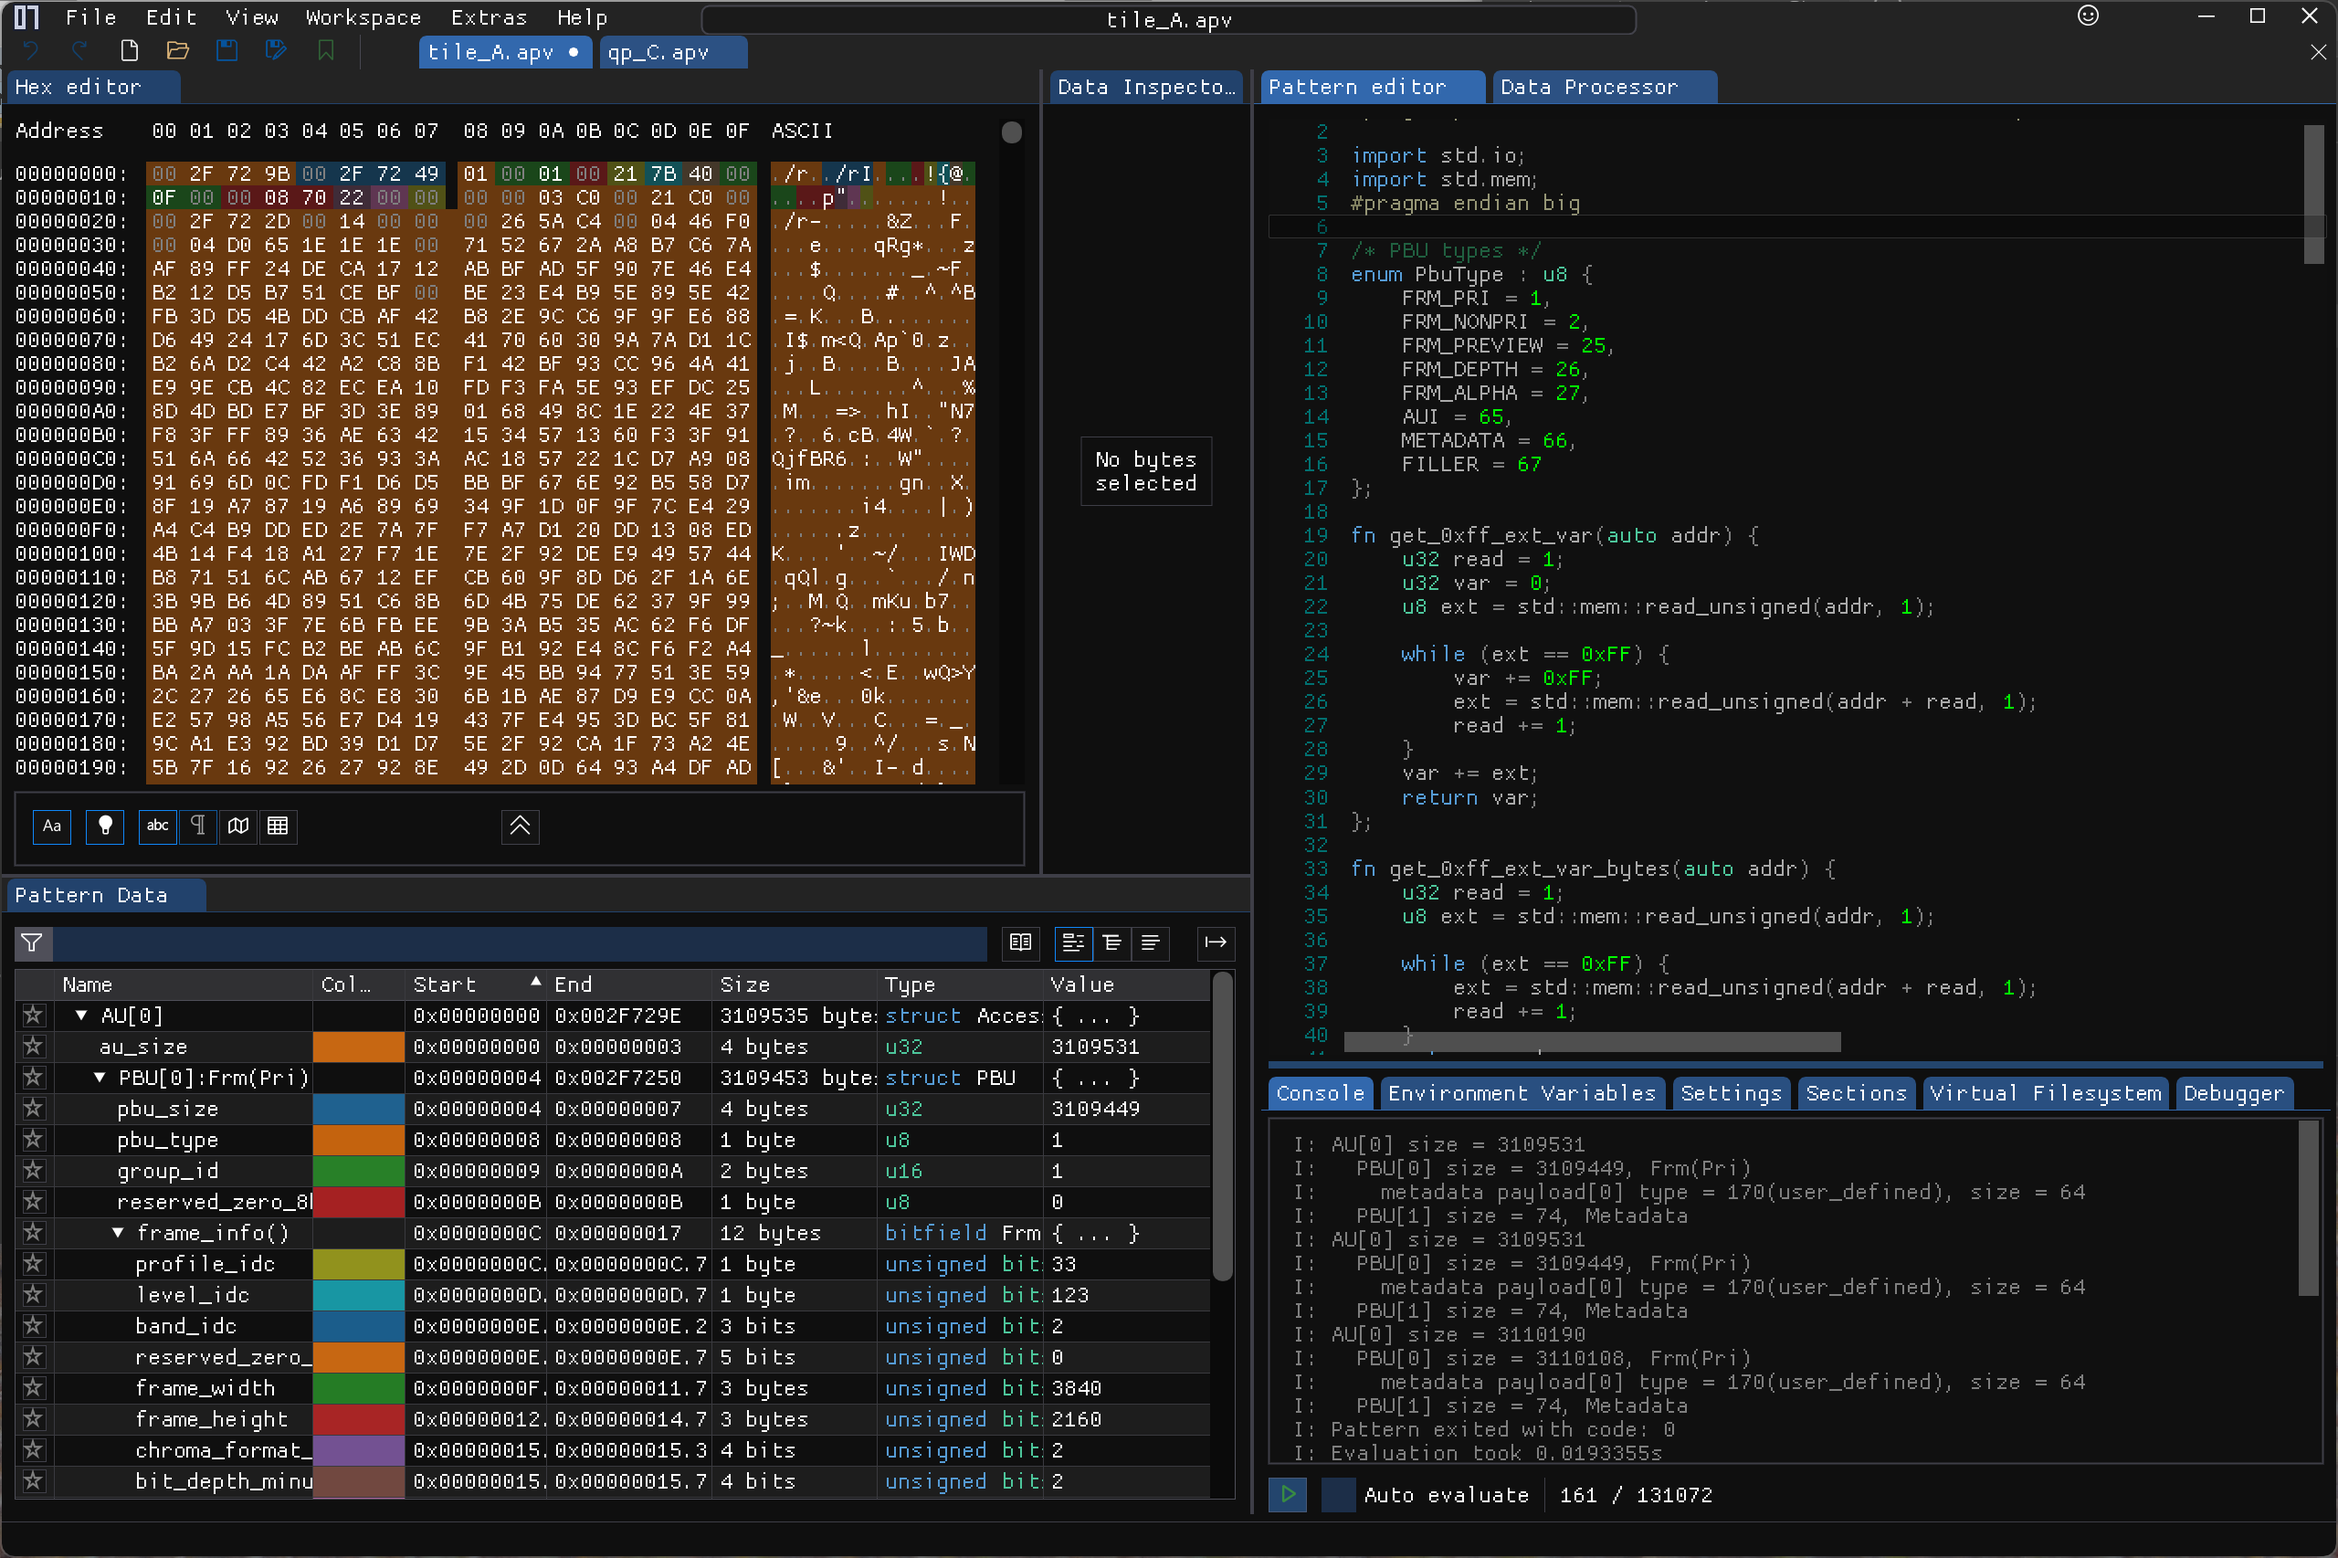
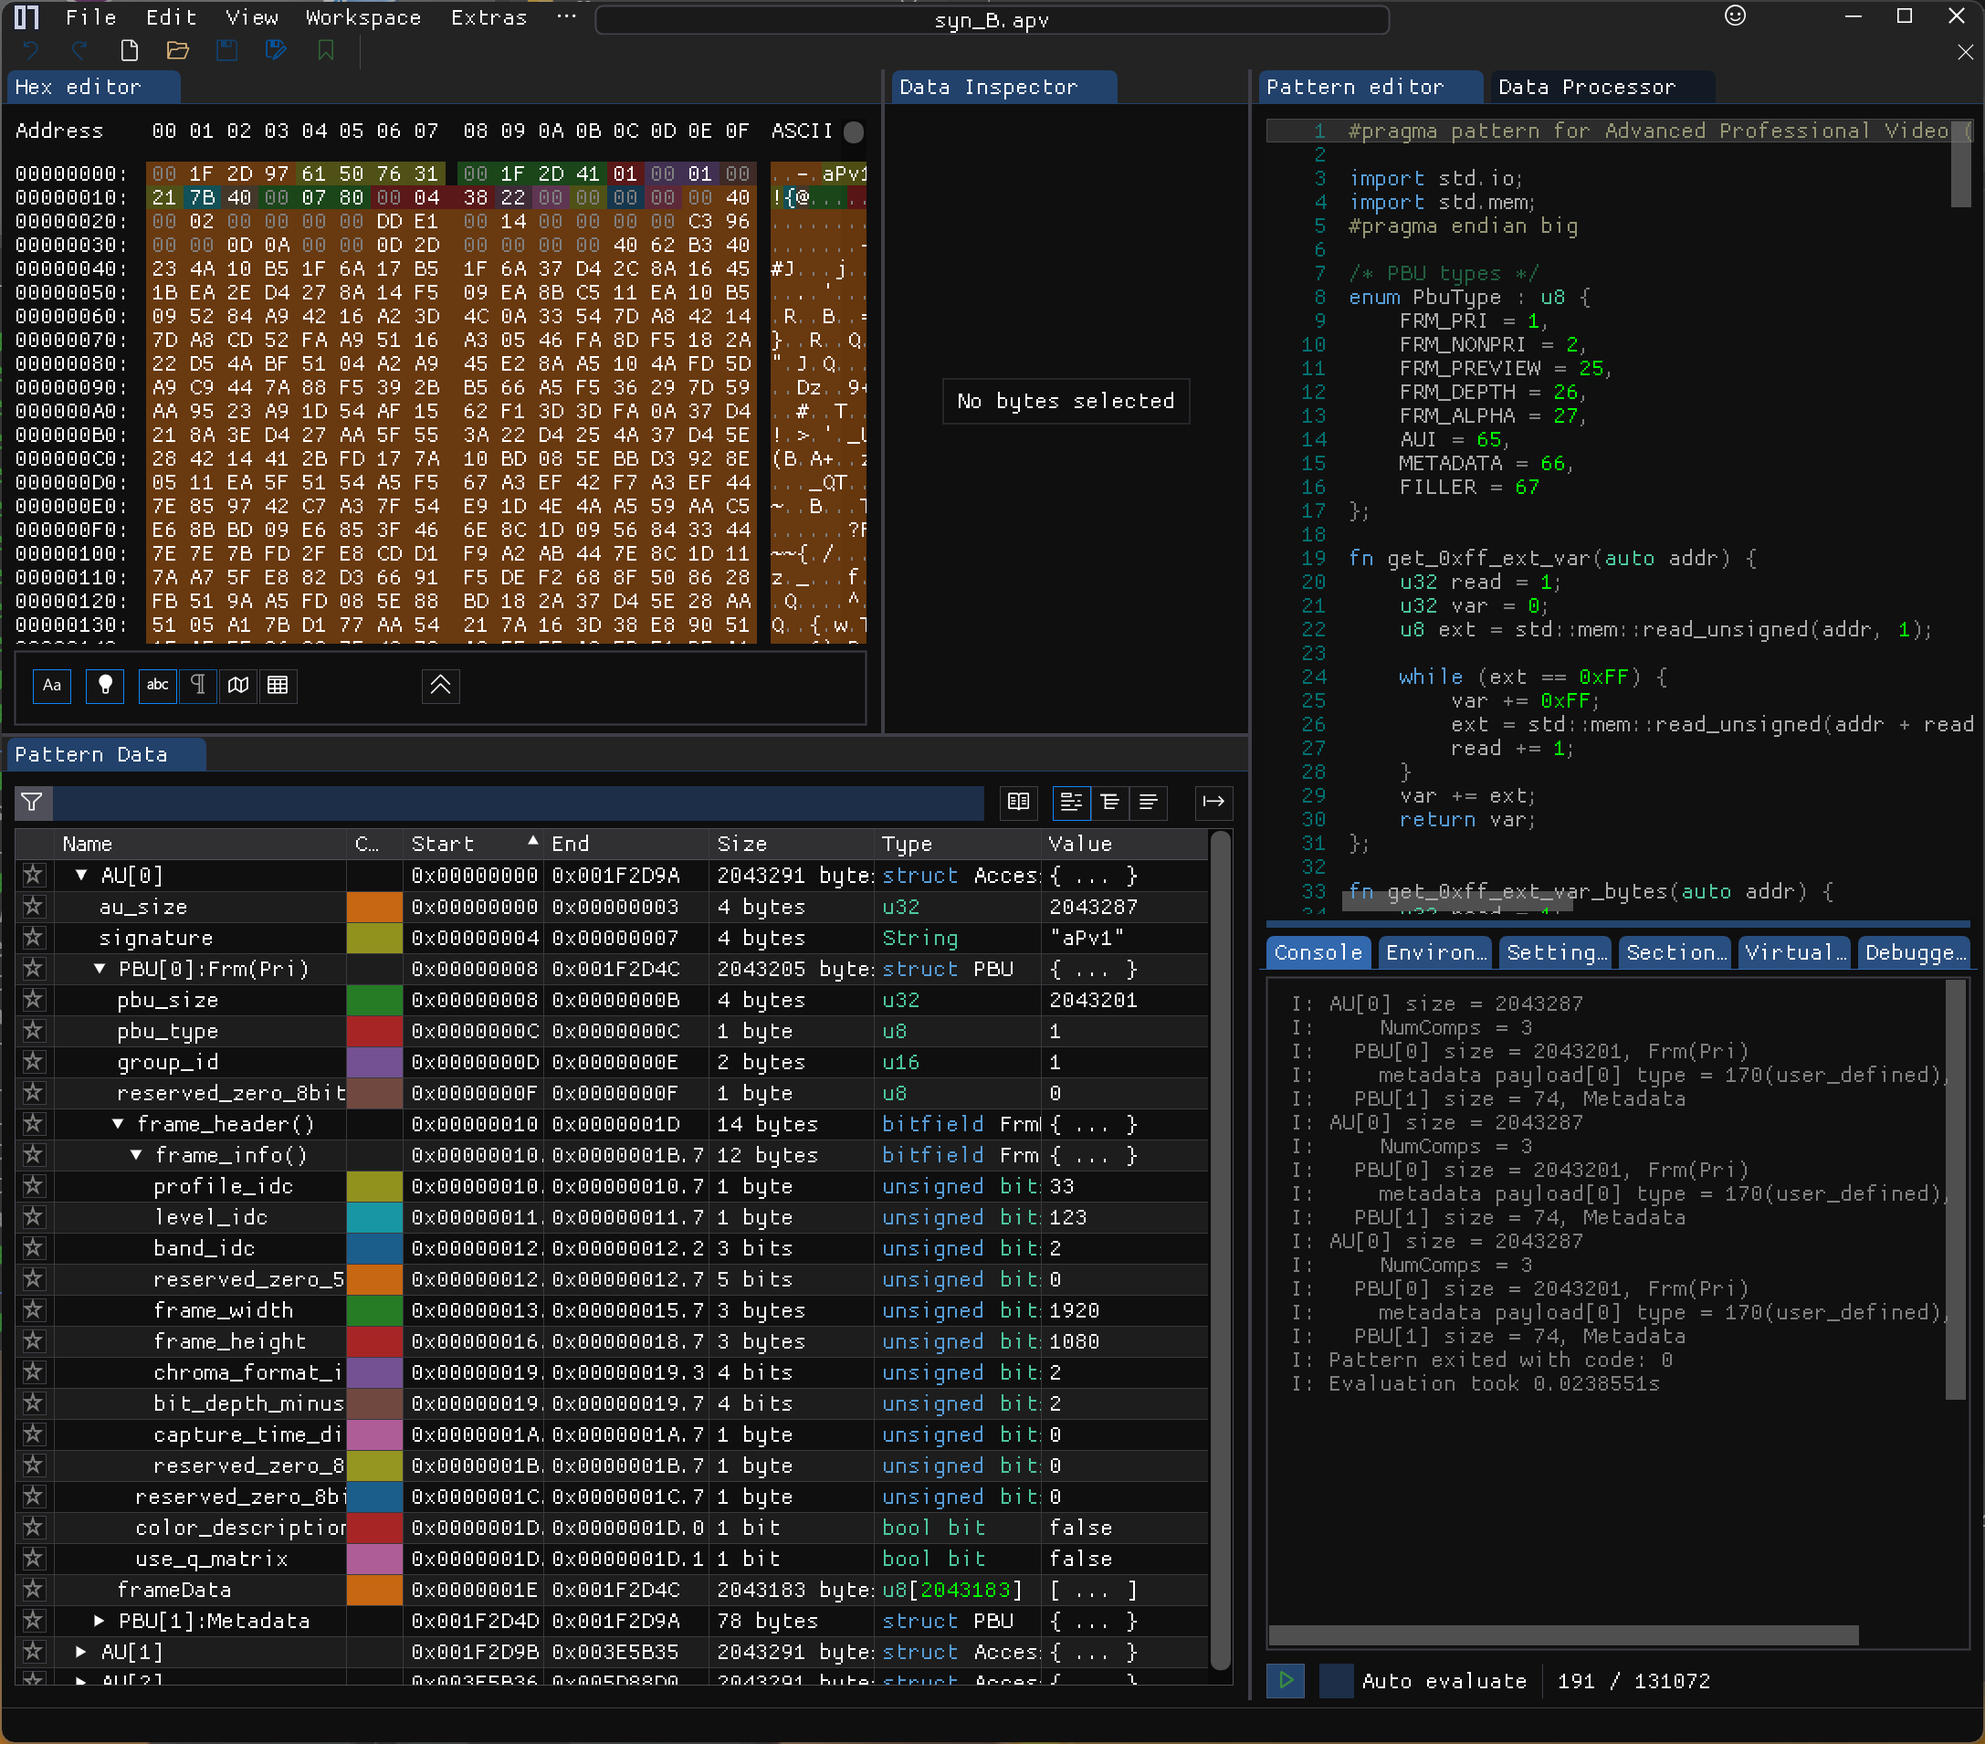
Update readme (#67)
* updated imhex screenshot compatible with version 4

* updated README

* fixed invalid operation incase of y4m input

---------

Changed region(s): [[0.0, 0.0, 1.0, 1.0], [0.1541, 0.9941, 0.4006, 1.0], [0.9862, 0.0, 1.0, 0.0311]]

diff --git a/app/oapv_app_enc.c b/app/oapv_app_enc.c
@@ -70,11 +70,11 @@ static const args_opt_t enc_args_opts[] = {
         "file name of reconstructed video"
     },
     {
-        'w',  "width", ARGS_VAL_TYPE_STRING | ARGS_VAL_TYPE_MANDATORY, 0, NULL,
+        'w',  "width", ARGS_VAL_TYPE_STRING, 0, NULL,
         "pixel width of input video"
     },
     {
-        'h',  "height", ARGS_VAL_TYPE_STRING | ARGS_VAL_TYPE_MANDATORY, 0, NULL,
+        'h',  "height", ARGS_VAL_TYPE_STRING, 0, NULL,
         "pixel height of input video"
     },
     {
@@ -85,7 +85,7 @@ static const args_opt_t enc_args_opts[] = {
         "      - 'auto' means that the value is internally determined"
     },
     {
-        'z',  "fps", ARGS_VAL_TYPE_STRING | ARGS_VAL_TYPE_MANDATORY, 0, NULL,
+        'z',  "fps", ARGS_VAL_TYPE_STRING, 0, NULL,
         "frame rate (frame per second))"
     },
     {
@@ -203,7 +203,7 @@ typedef struct args_var {
 
     char           width[16];
     char           height[16];
-    char           fps[256];
+    char           fps[16];
 
     char           qp[16];
     char           qp_offset_c1[16];
@@ -679,6 +679,17 @@ int main(int argc, const char **argv)
             (args_var->input_csp == 4 ? OAPV_CF_YCBCR4444 : \
             (args_var->input_csp == 5 ? OAPV_CF_PLANAR2   : OAPV_CF_UNKNOWN))))));
         // clang-format on
+
+        // check mandatory parameters for YUV raw file.
+        if(strlen(args_var->width) == 0) {
+            logerr("'--width' argument is required\n"); ret = -1; goto ERR;
+        }
+        if(strlen(args_var->height) == 0) {
+            logerr("'--height' argument is required\n"); ret = -1; goto ERR;
+        }
+        if(strlen(args_var->fps) == 0) {
+            logerr("'--fps' argument is required\n"); ret = -1; goto ERR;
+        }
     }
     if(args_var->input_csp == -1) {
         logerr("Unknown input color space. set '--input-csp' argument\n");

diff --git a/inc/oapv.h b/inc/oapv.h
@@ -408,7 +408,9 @@ static const oapv_dict_str_int_t oapv_param_opts_preset[] = {
 
 static const oapv_dict_str_int_t oapv_param_opts_color_range[] = {
     {"limited", 0},
+    {"tv",      0}, // alternative value of "limited"
     {"full",    1},
+    {"pc",      1}, // alternative value of "full"
     {"", 0} // termination
 };
 

diff --git a/README.md b/README.md
@@ -71,7 +71,7 @@ The APV codec standard has the following features:
   - Executable applications can be found under build*/bin/
   - Library files can be found under build*/lib/
 
-## How to use
+## How to use applications
 ### Encoder
 
 Encoder as input require raw YCbCr file (422, 444), 10-bit or more.
